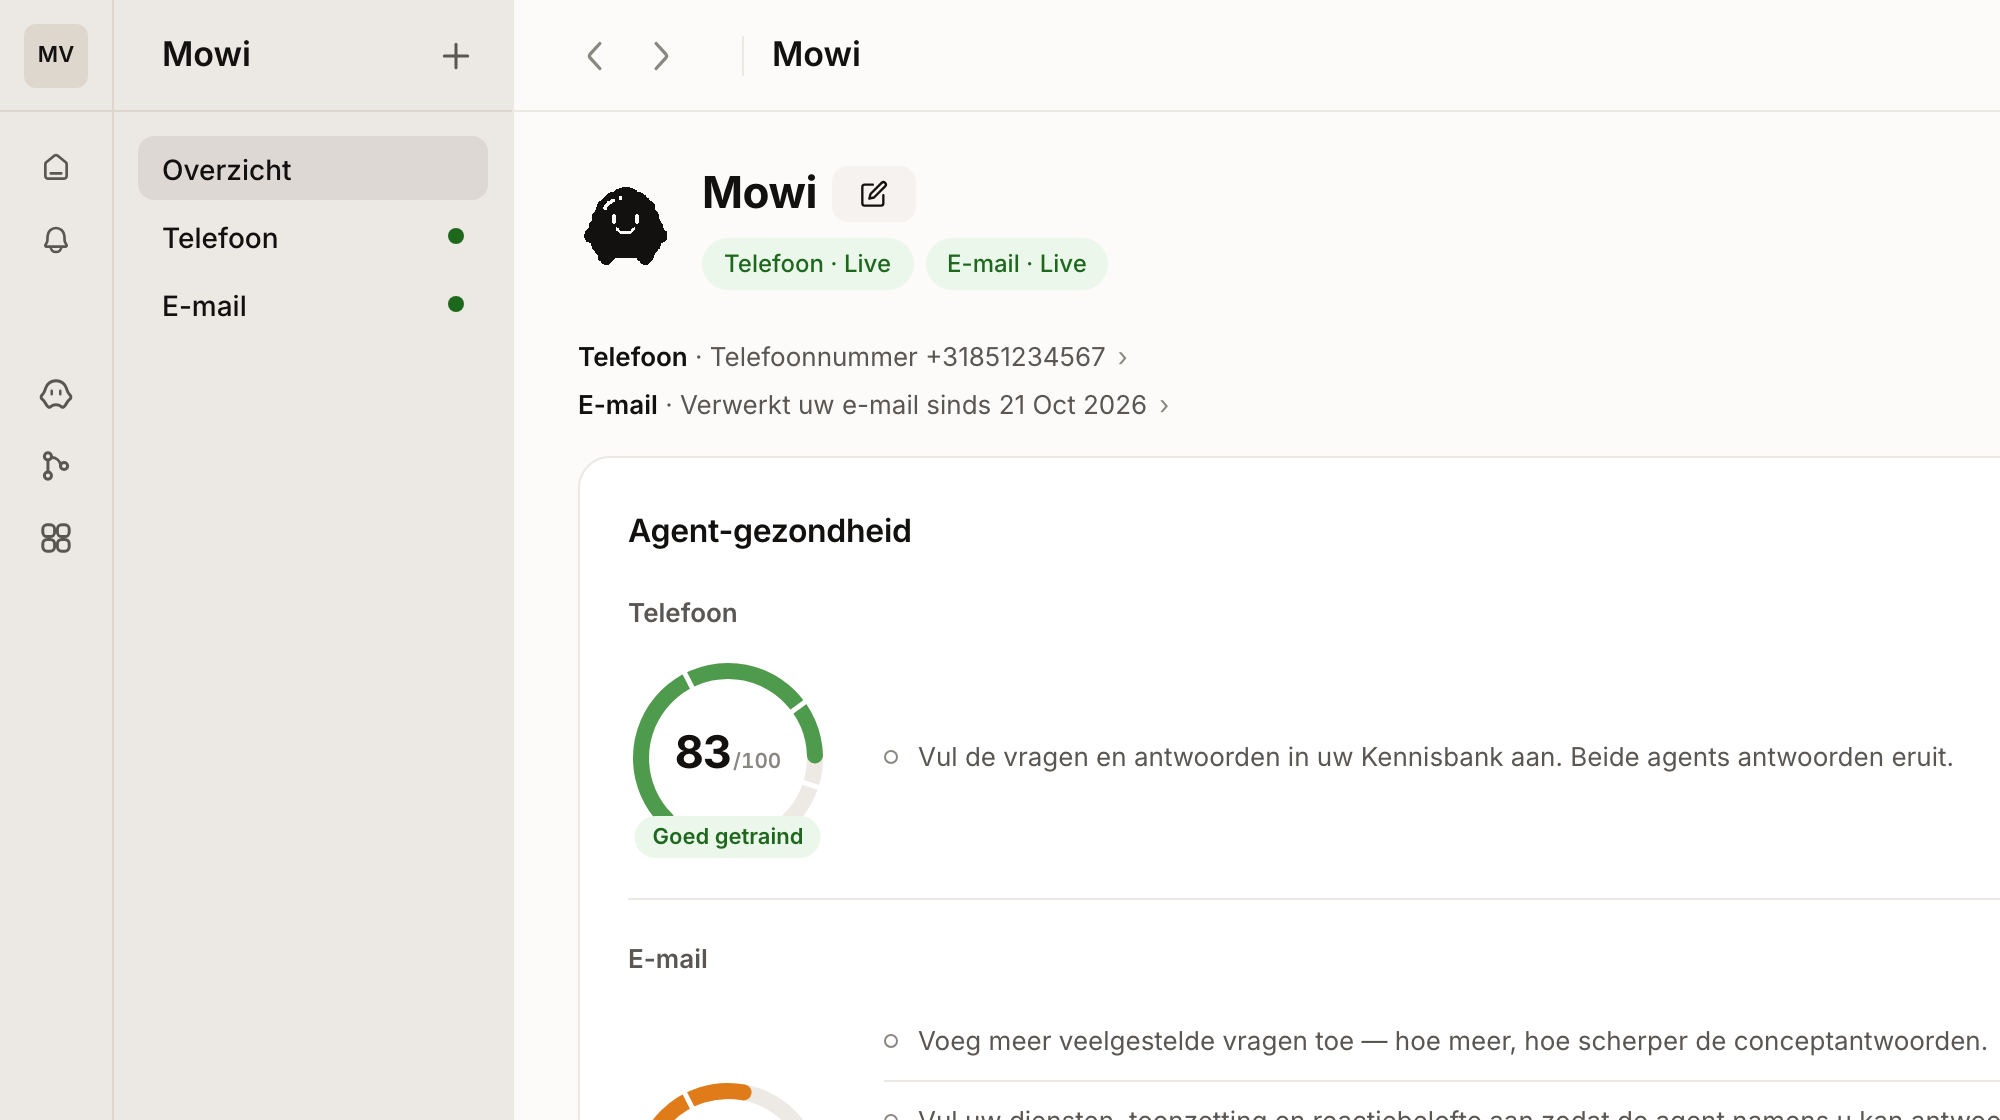
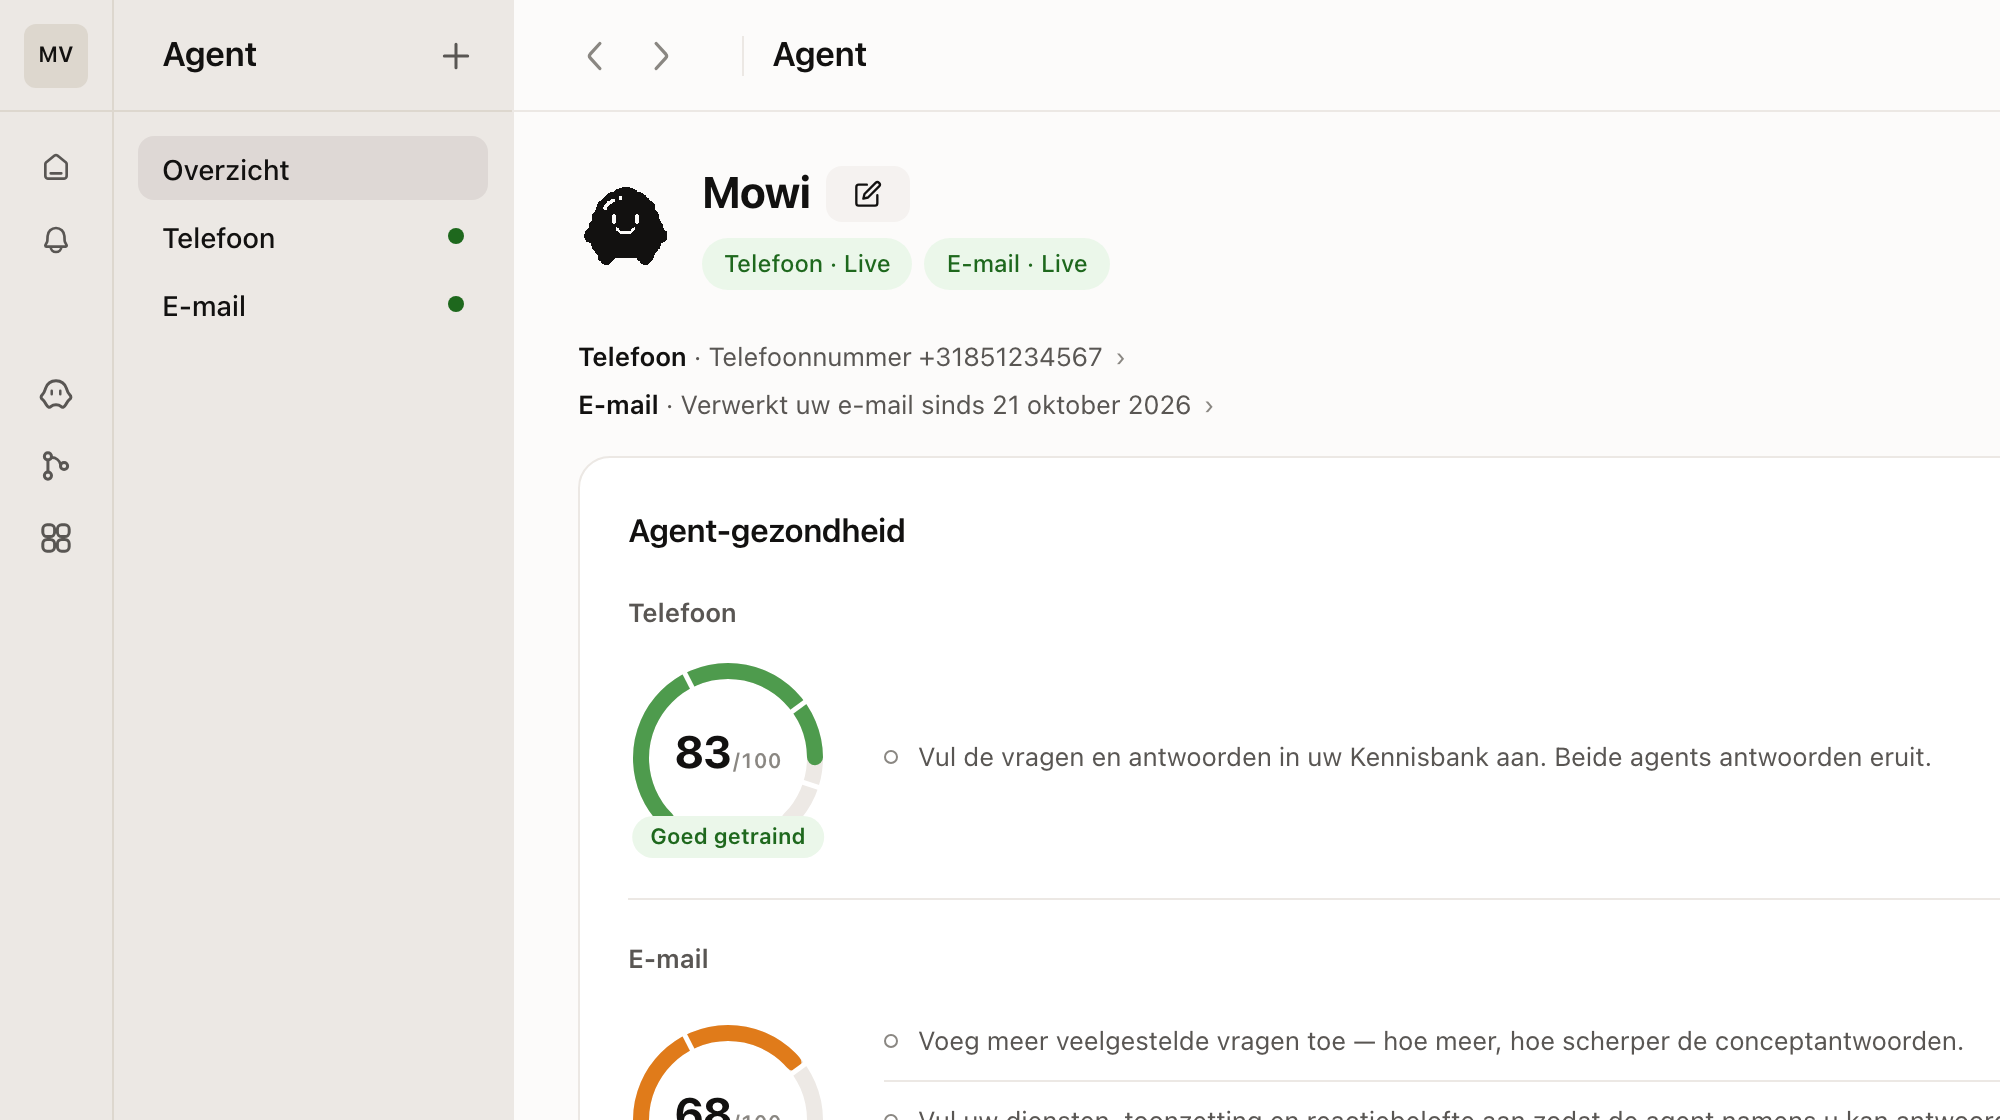
Docs: Overzicht screenshot with "Agent" in the panel and top header
Follows dashboard c728988 (Sal: the Agent panel and the top header say
"Agent", like Workflows; only the avatar carries the name, "Mowi" by
default). Re-shot at the same crop, with the Dutch date from 424bb56.

diff --git a/docs/overzicht-dashboard.html b/docs/overzicht-dashboard.html
@@ -99,7 +99,7 @@
 <h2>Onderdelen van het dashboard</h2>
 
 <div class="docs-media docs-media--shot">
-<a href="../assets/docs/overzicht-dashboard-1-agent.webp?v=20261021" target="_blank" rel="noopener"><img src="../assets/docs/overzicht-dashboard-1-agent.webp?v=20261021" alt="Het dashboard met links de zijbalk en het menu van de agent met Overzicht, Telefoon en E-mail, en rechts de agent Mowi met Telefoon Live en E-mail Live" width="1000" height="560" loading="lazy" /></a>
+<a href="../assets/docs/overzicht-dashboard-1-agent.webp?v=20261023" target="_blank" rel="noopener"><img src="../assets/docs/overzicht-dashboard-1-agent.webp?v=20261023" alt="Het dashboard met links de zijbalk en het menu van de agent met Overzicht, Telefoon en E-mail, en rechts de agent Mowi met Telefoon Live en E-mail Live" width="1000" height="560" loading="lazy" /></a>
 </div>
 <p class="docs-media-caption">De zijbalk, met het menu van de agent: <strong>Overzicht</strong>, <strong>Telefoon</strong> en <strong>E-mail</strong>.</p>
 
